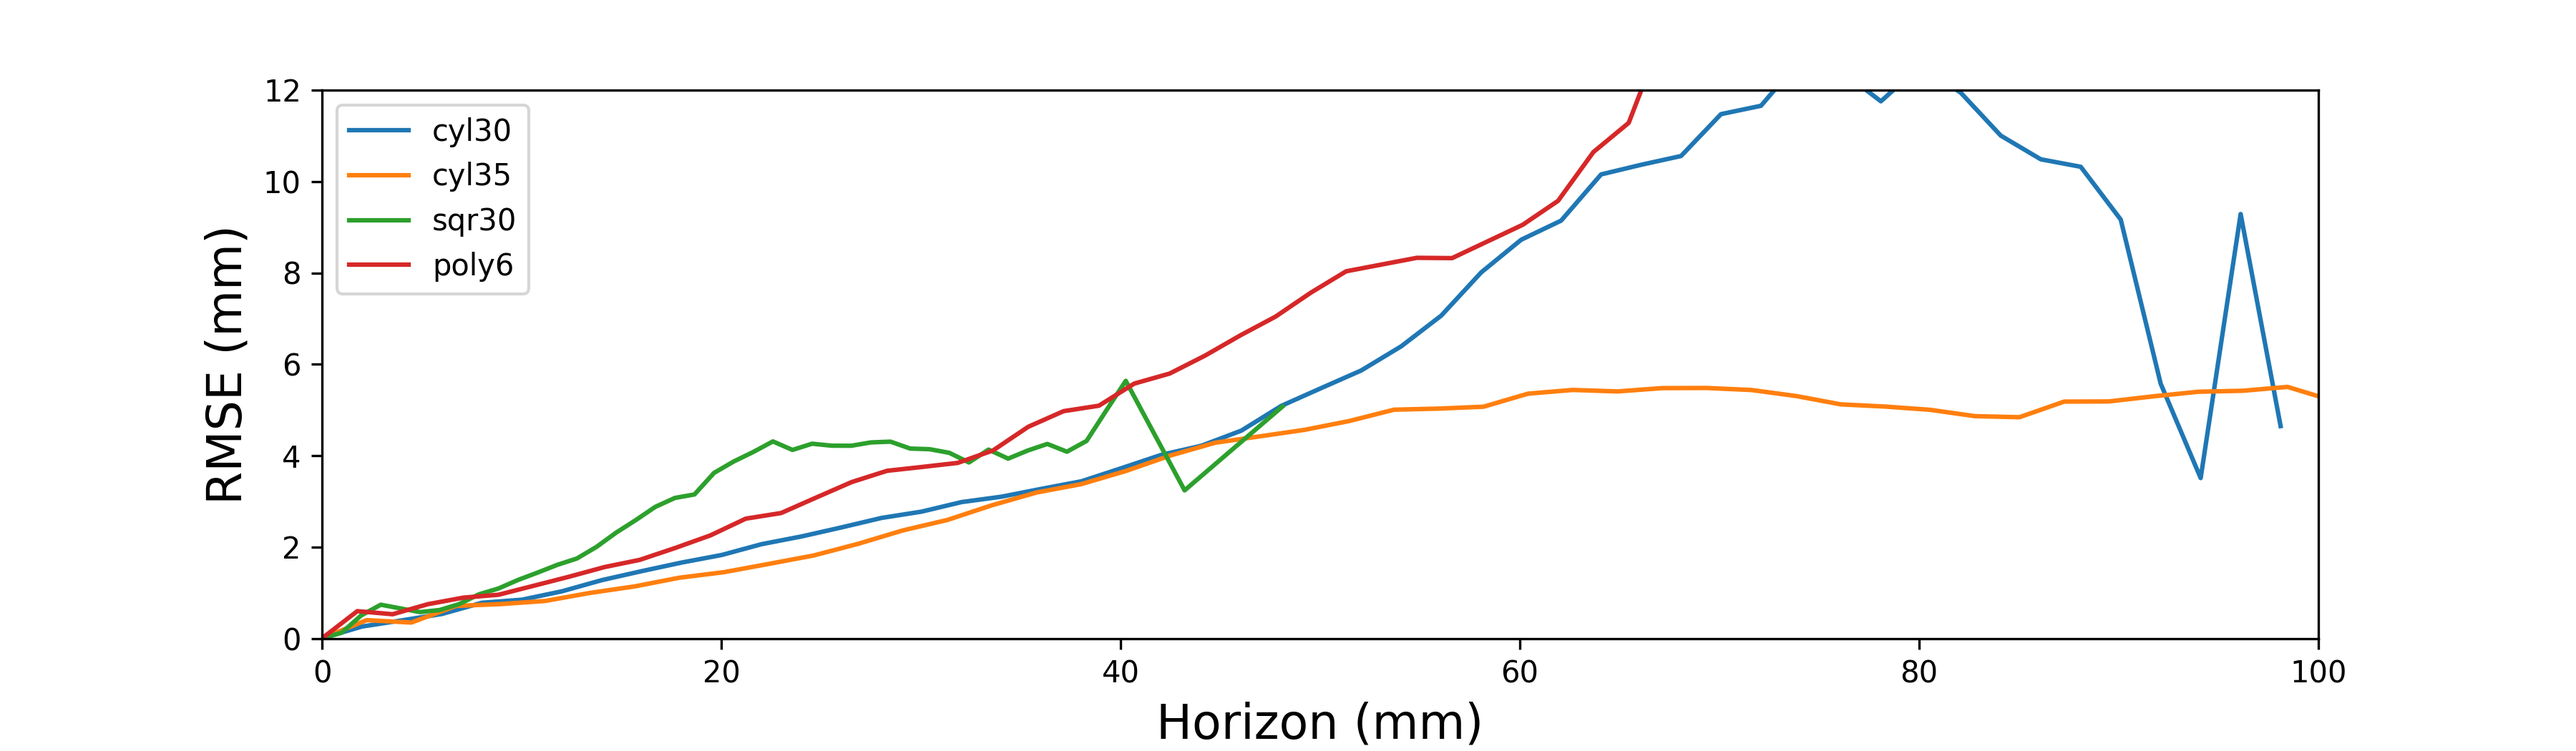
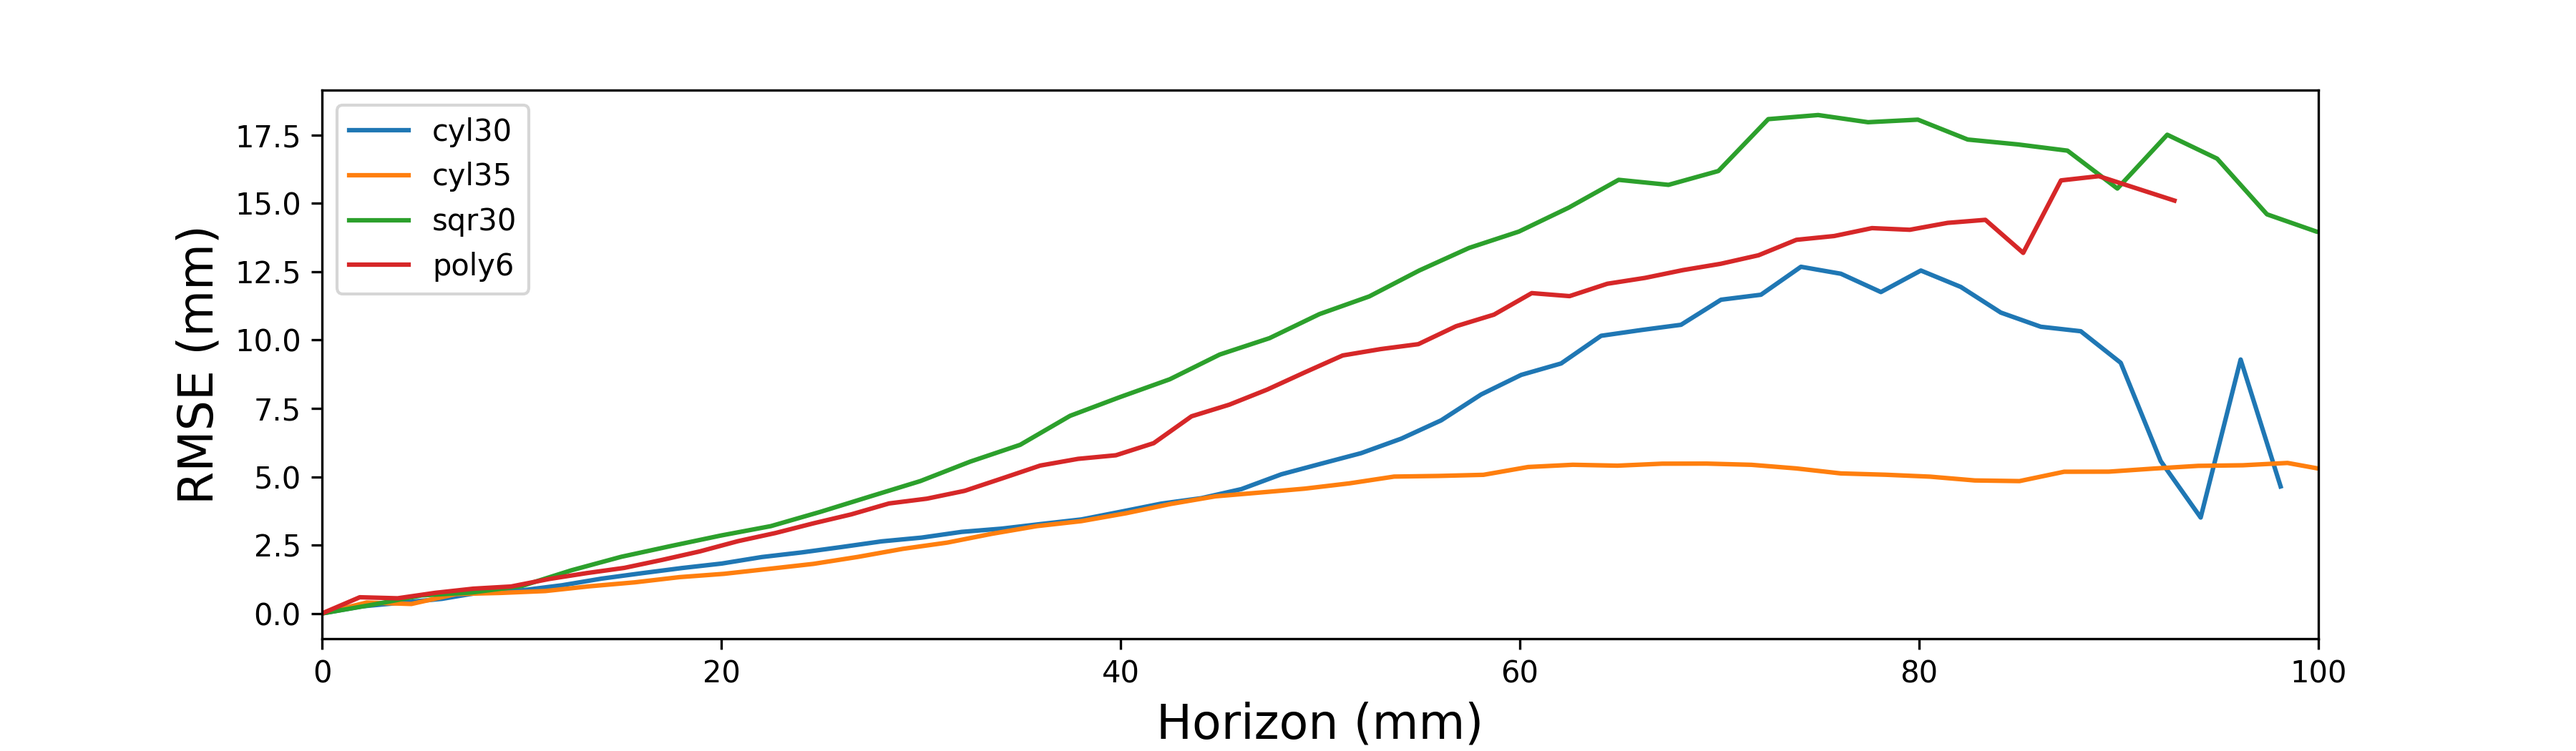
More

diff --git a/gpup_gp_node/src/for_paper/error_analysis_sum.py b/gpup_gp_node/src/for_paper/error_analysis_sum.py
@@ -131,33 +131,35 @@ plt.ylabel('RMSE (mm)', fontsize=16)
 # plt.title('GP Prediction error')
 plt.legend()
 plt.xlim([0,100])
-plt.ylim([0,12])
+# plt.ylim([0,12])
 plt.gcf().subplots_adjust(bottom=0.15)
 plt.savefig(path + 'pred_all_modeling.png', dpi=300) #str(np.random.randint(100000))
-
-# Error-datasize plot
-files_pkl = glob.glob(path + 'datasize_analysis_' + "*_gp.pkl")
-
-plt.figure(figsize=(10,4.5))
-for F in files_pkl:
-
-    with open(F, 'r') as f: 
-        Ld, Ggp = np.array(pickle.load(f))
-    Ld = Ld[:len(Ggp)]
-
-    ix = F.find('analysis_') + 9
-    obj = F[ix:ix+5]
- 
-    # Ggp = medfilter(Ggp, 10)
-
-    plt.plot(Ld, Ggp, '-', label = obj)
-
-plt.xlabel('Datasize', fontsize=16)
-plt.ylabel('RMSE (mm)', fontsize=16)
-# plt.title('GP Prediction error')
-plt.legend()
-# plt.xlim([0,32])
-# plt.ylim([0,3])
-# plt.savefig(path + 'datasize_all.png', dpi=300) #str(np.random.randint(100000))
 plt.show()
+
+
+# # Error-datasize plot
+# files_pkl = glob.glob(path + 'datasize_analysis_' + "*_gp.pkl")
+
+# plt.figure(figsize=(10,4.5))
+# for F in files_pkl:
+
+#     with open(F, 'r') as f: 
+#         Ld, Ggp = np.array(pickle.load(f))
+#     Ld = Ld[:len(Ggp)]
+
+#     ix = F.find('analysis_') + 9
+#     obj = F[ix:ix+5]
+ 
+#     # Ggp = medfilter(Ggp, 10)
+
+#     plt.plot(Ld, Ggp, '-', label = obj)
+
+# plt.xlabel('Datasize', fontsize=16)
+# plt.ylabel('RMSE (mm)', fontsize=16)
+# # plt.title('GP Prediction error')
+# plt.legend()
+# # plt.xlim([0,32])
+# # plt.ylim([0,3])
+# # plt.savefig(path + 'datasize_all.png', dpi=300) #str(np.random.randint(100000))
+# plt.show()
 
